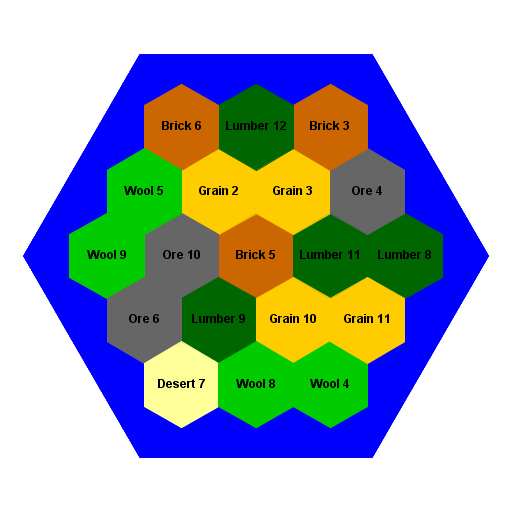
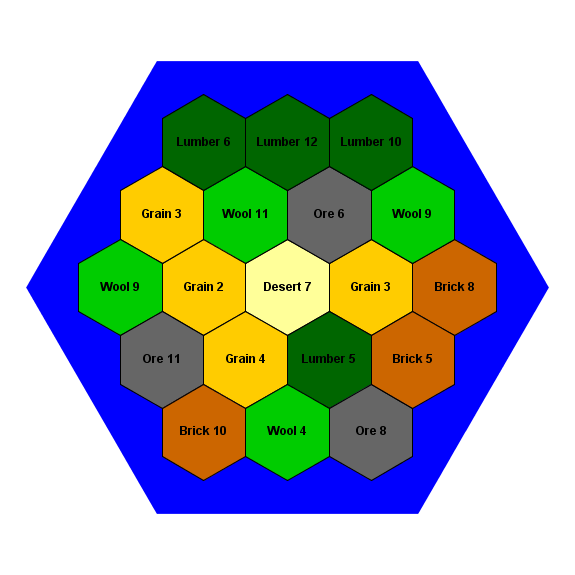
updated rendering code to include black outlines for each hex, and changed testing code to demonstrate dynamic coordinates by saving increasingly larger images

diff --git a/src/Board.java b/src/Board.java
@@ -362,6 +362,7 @@ public class Board {
     
     // draws a dim x dim square containing the game board
     public void draw(double dim) {
+        StdDraw.setCanvasSize((int) dim, (int) dim);
         StdDraw.setXscale(0, dim);
         StdDraw.setYscale(0, dim);
         double xCenter = dim / 2;
@@ -391,9 +392,9 @@ public class Board {
         for (int i = 0; i < hexes.length; i++) {
             StdDraw.setPenColor(hexes[i].getResource().getColor());
             StdDraw.filledPolygon(hexShapes[i].getXCoords(), hexShapes[i].getYCoords());
-            StdDraw.polygon(hexShapes[i].getXCoords(), hexShapes[i].getYCoords());
             StdDraw.setPenColor(StdDraw.BLACK);
             StdDraw.text(xCenters[i], yCenters[i], hexes[i].getResource().toString() + " " + hexes[i].getDiceRoll());
+            StdDraw.polygon(hexShapes[i].getXCoords(), hexShapes[i].getYCoords());
         }
     }
     private double[] getHexXCenters(double w, double s, double h, double xCenter) {
@@ -569,6 +570,7 @@ public class Board {
     
     public static void main(String args[]) {
         Board b = new Board();
+        /*
         System.out.println("HGRAPH");
         b.printHGraph();
         System.out.println("-----");
@@ -583,11 +585,14 @@ public class Board {
         System.out.println("-----");
         b.printHIMapping();
         b.printIHMapping();
+        */
         
+        int canvasSize = 450;
         for (int i = 0; i < 20; i++) {
-            b.draw(500);
+            b.draw(canvasSize);
             StdDraw.save("result" + i + ".png");
             b = new Board();
+            canvasSize += 25;
         }
         System.exit(0);
     }
